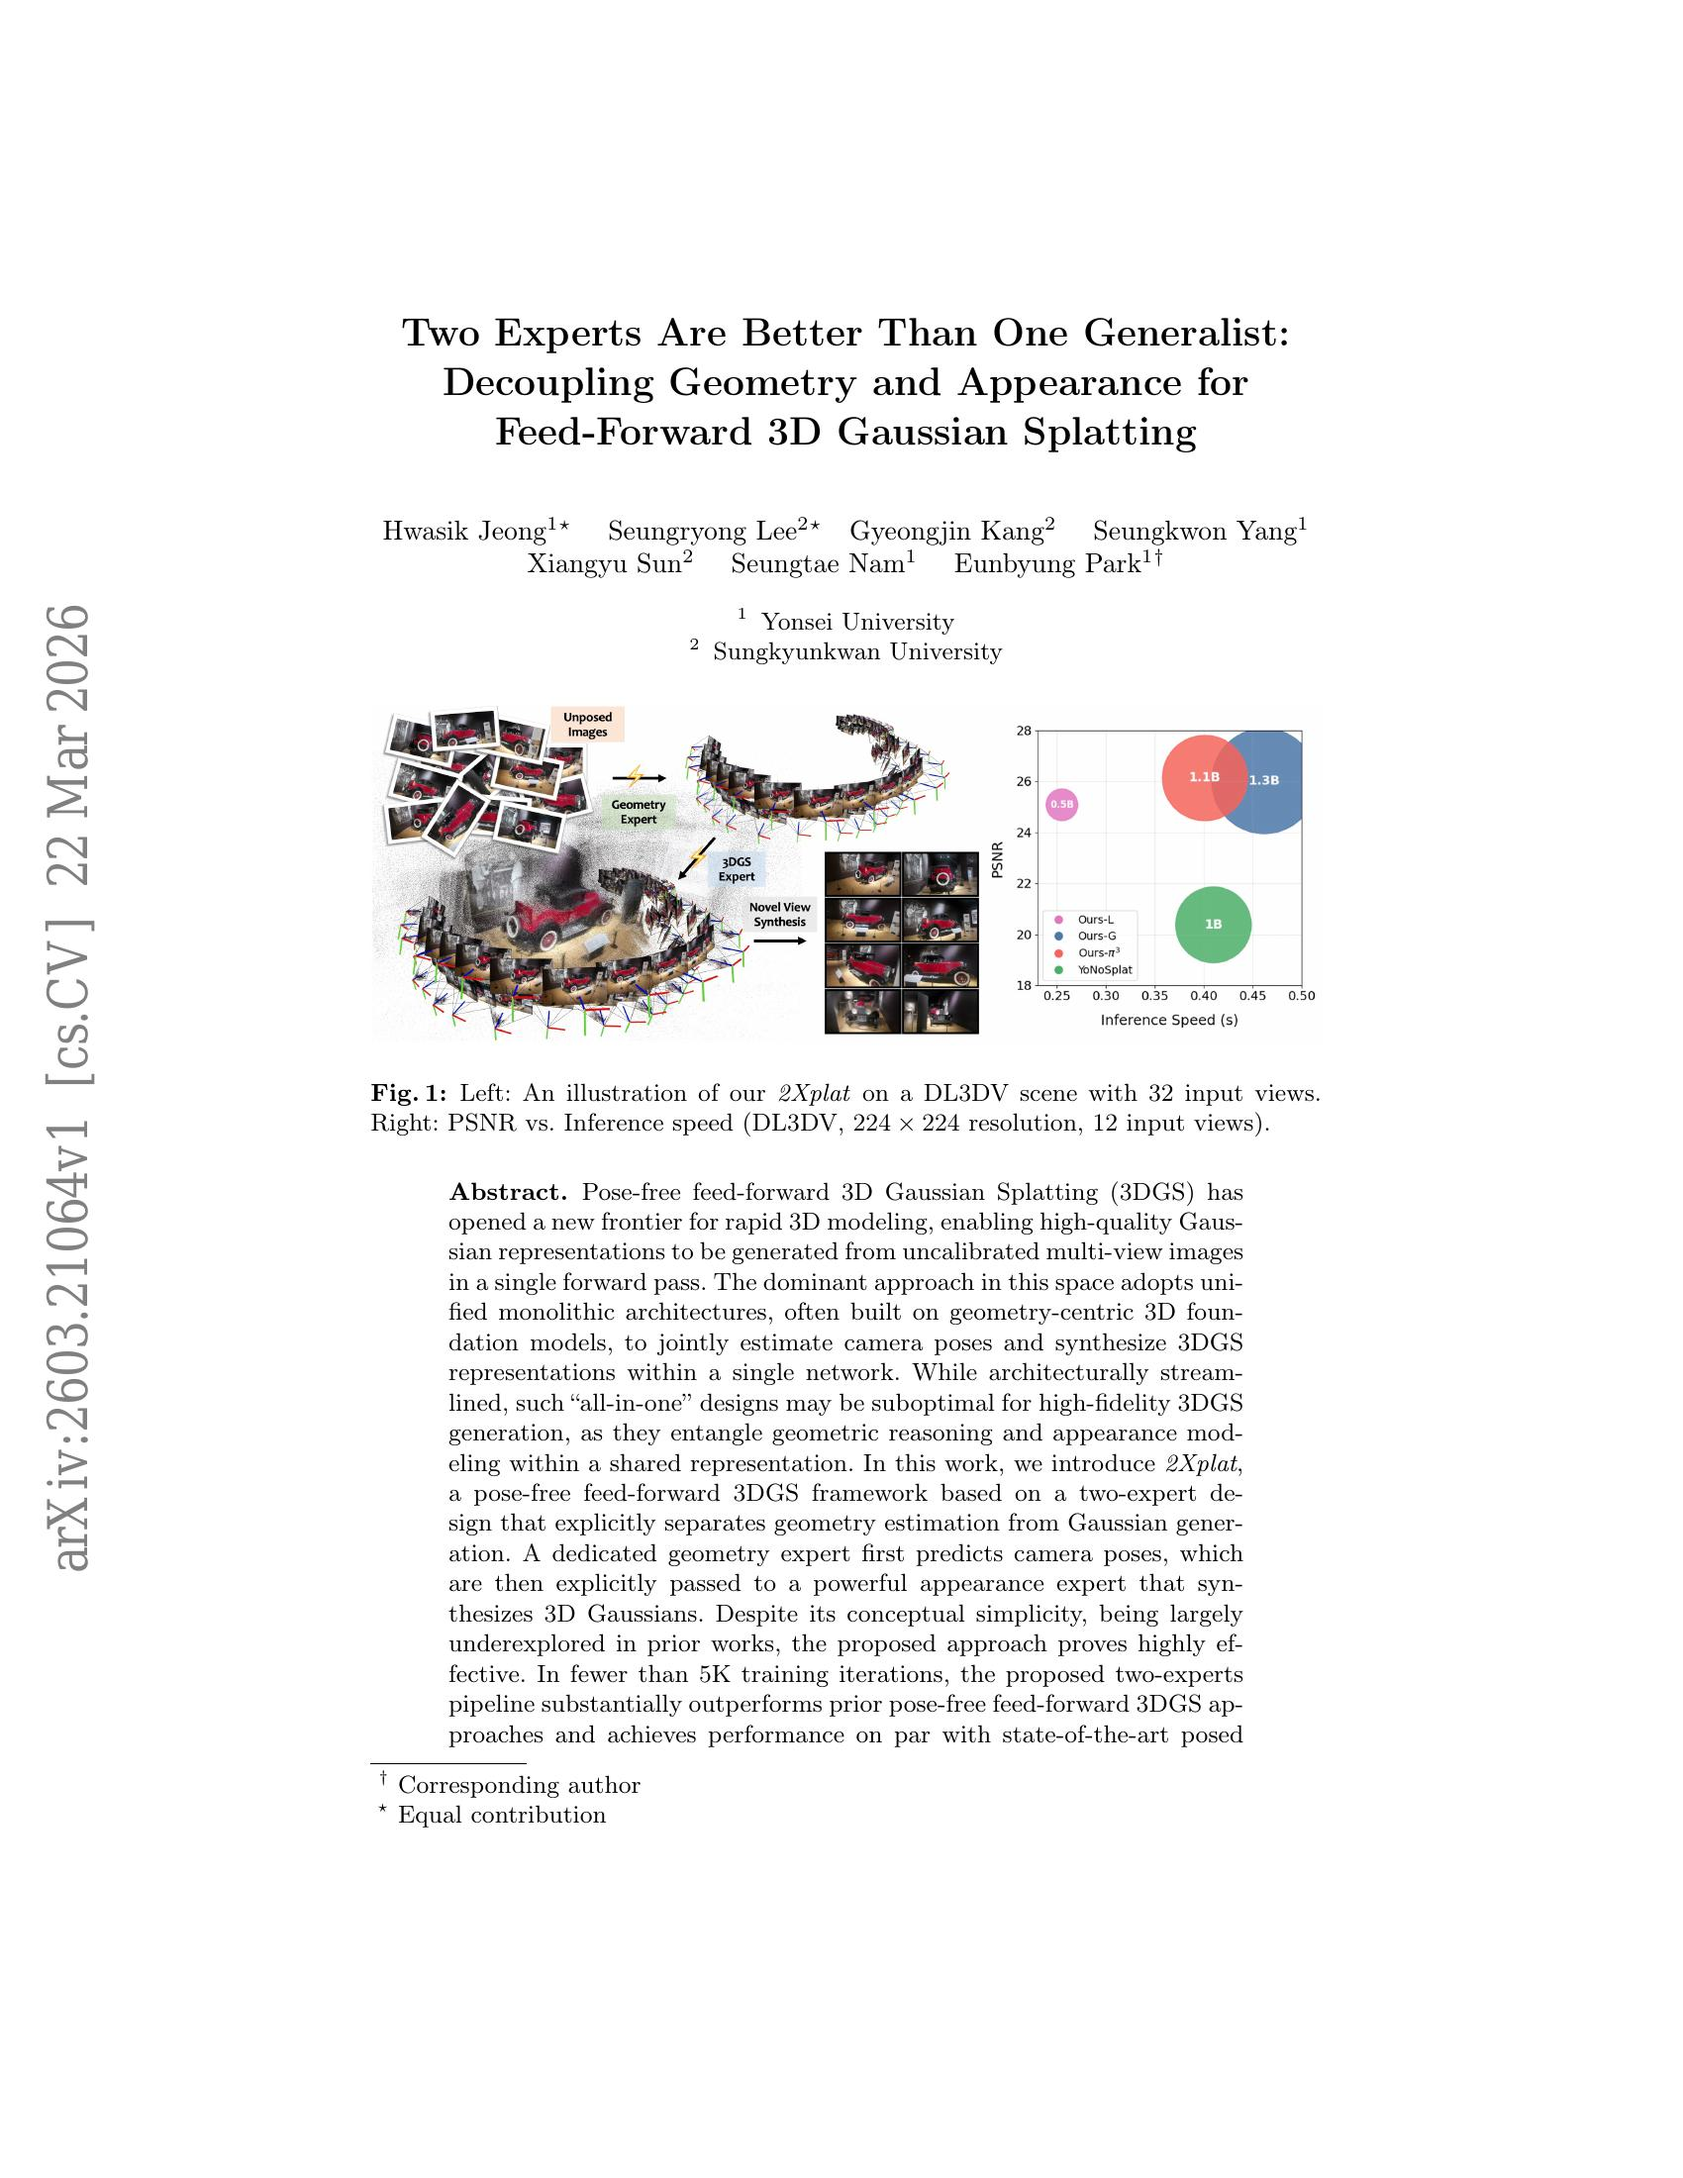
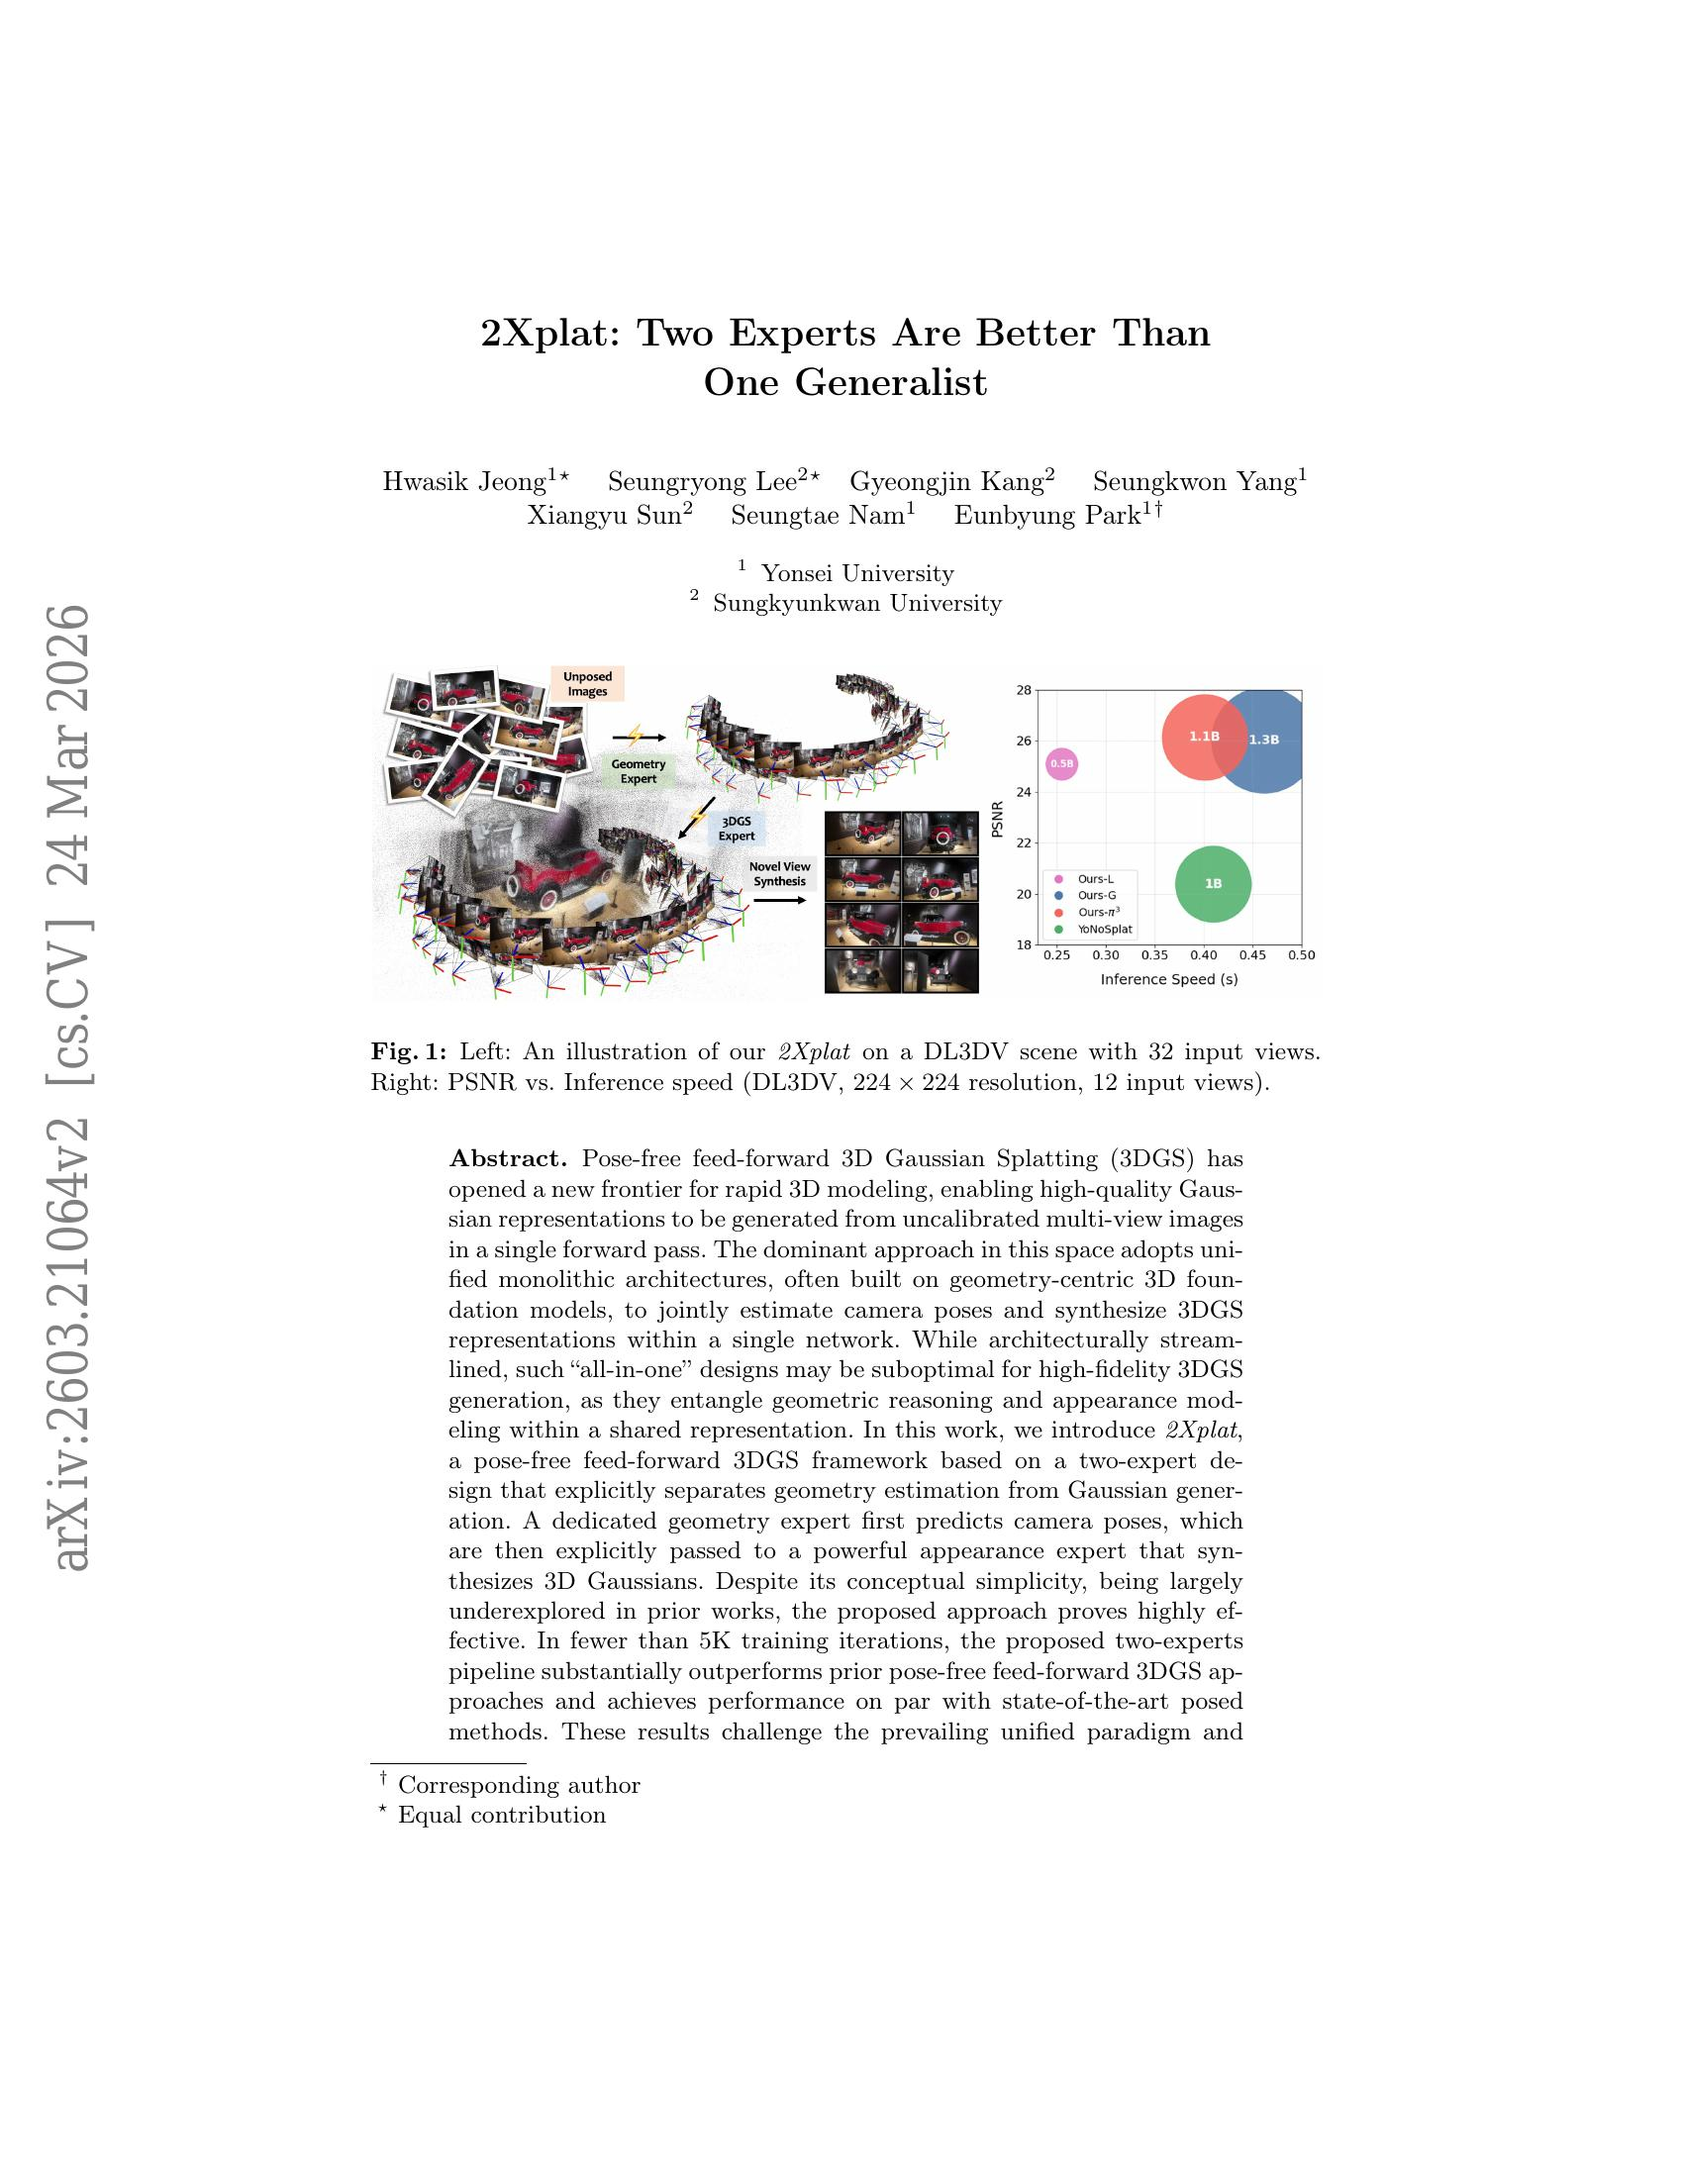
edit paper info

Changed region(s): [[0.2182, 0.1236, 0.7794, 0.8036], [0.0312, 0.3709, 0.0624, 0.4018]]

diff --git a/thumb.py b/thumb.py
@@ -9,7 +9,7 @@ def pdf_to_thumbnail(pdf_path, output_path):
     except Exception as e:
         print(f"Error generating thumbnail: {e}")
 
-pdf_path = "/home/vlab/2603.21944v1.pdf"
+pdf_path = "/home/vlab/2603.21064v2.pdf"
 output_path = "./thumbnail.jpg"
 
 pdf_to_thumbnail(pdf_path, output_path)
